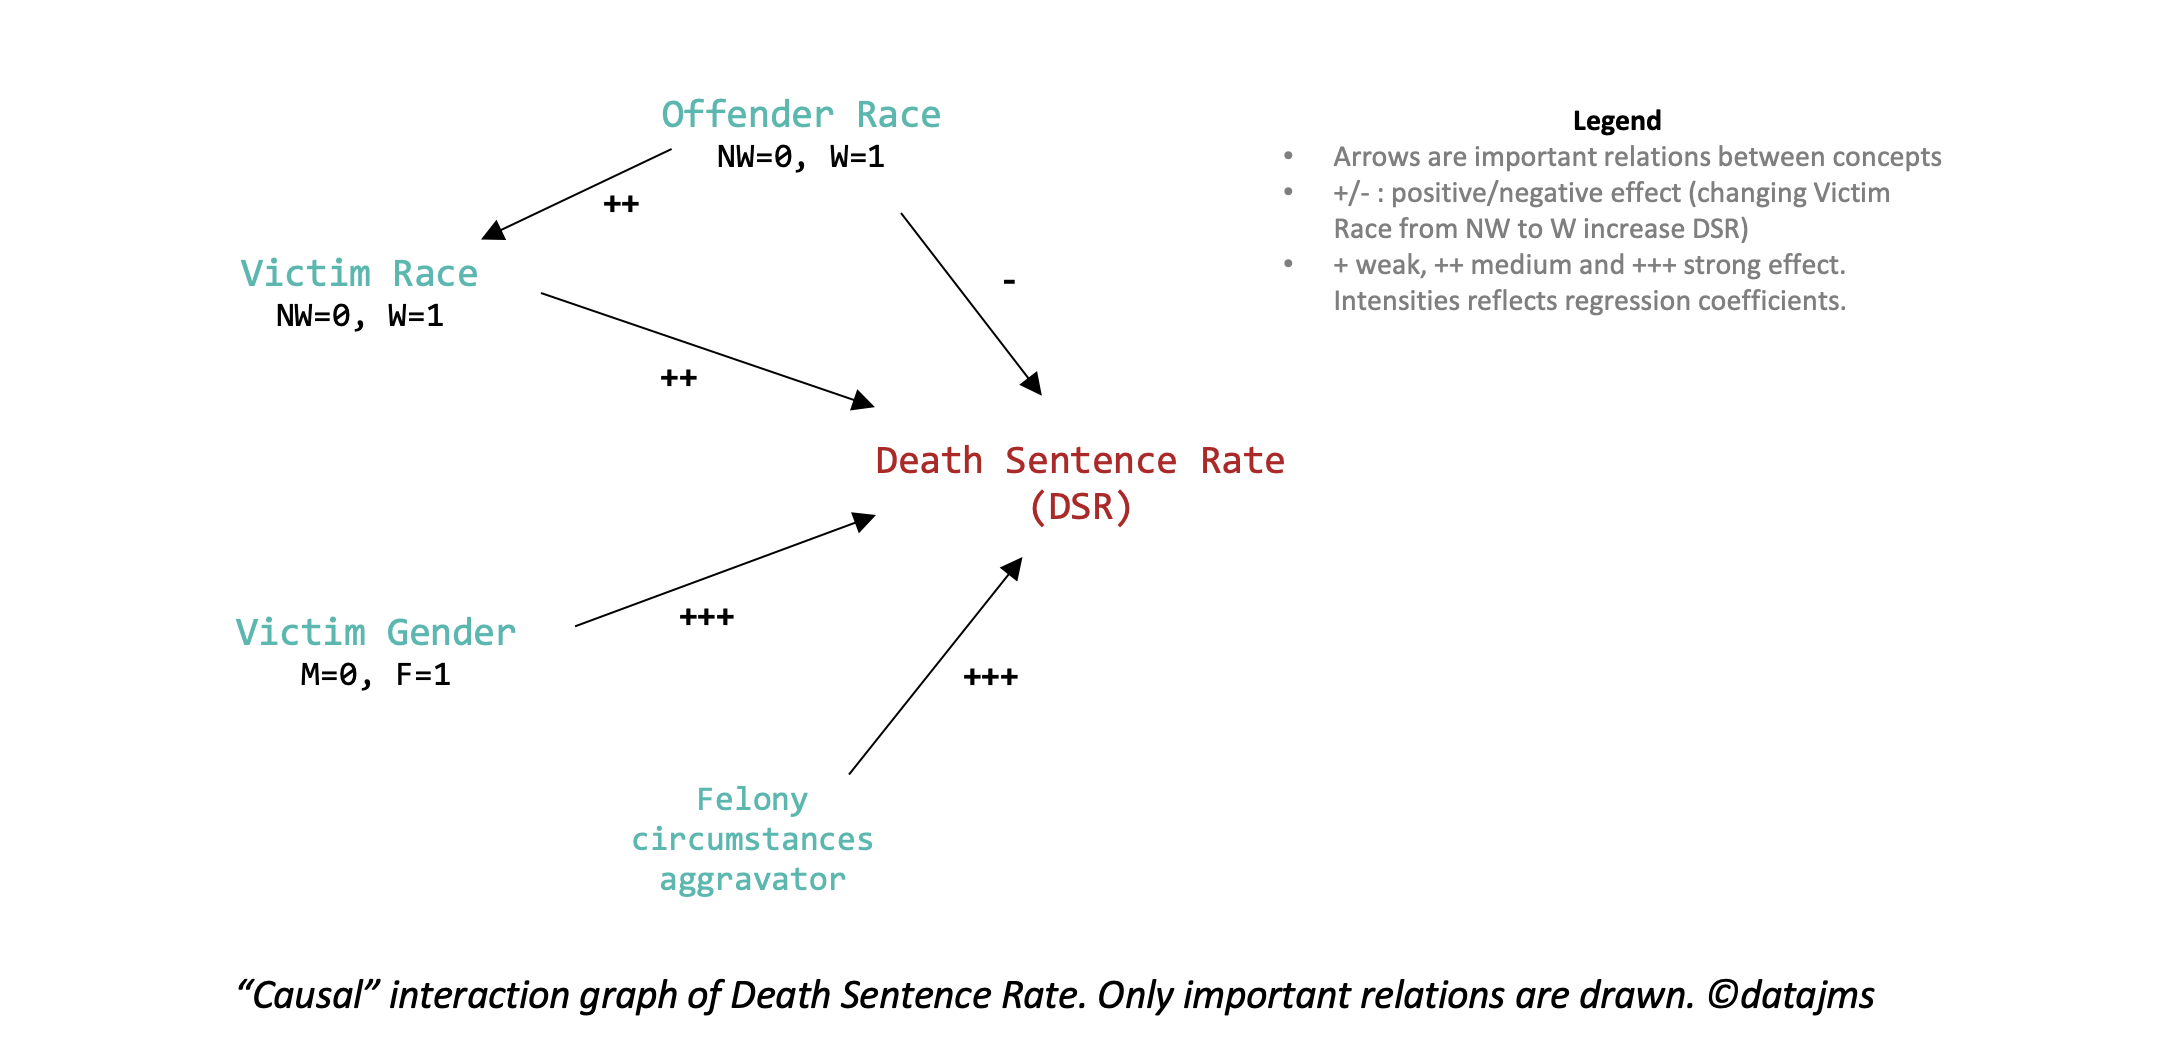
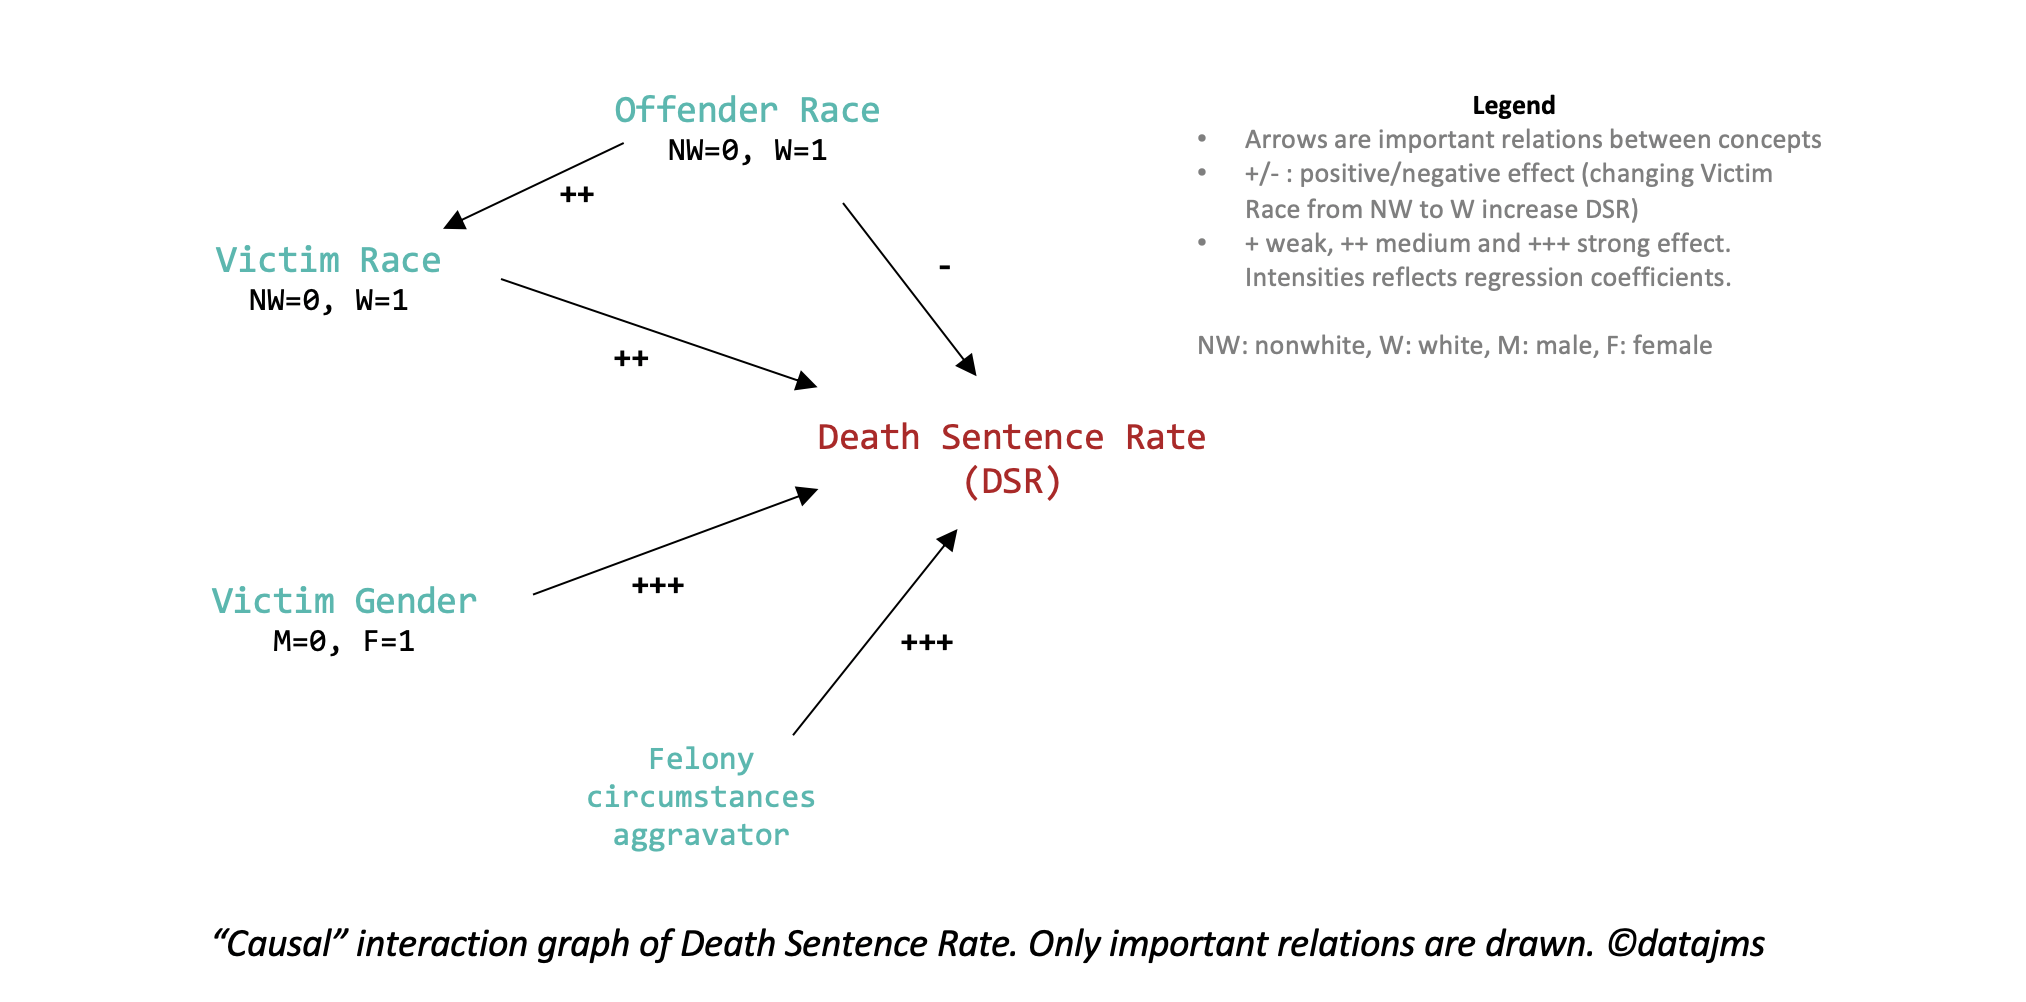
add legend and fix typo

diff --git a/post/fairness_justice_us/index.html b/post/fairness_justice_us/index.html
@@ -24,7 +24,7 @@
         "datePublished": "2020-06-03 10:00:12 \x2b0200 CEST",
         "dateModified" : "2020-06-03 10:00:12 \x2b0200 CEST",
         "url" : "\/post\/fairness_justice_us\/",
-        "wordCount" : "1434",
+        "wordCount" : "1498",
         "keywords" : [ "ideas","fairness","causality","no math","Blog" ]
     }
     </script>
@@ -83,7 +83,7 @@
 <meta itemprop="description" content="When data shows that Black Lives literaly Mattered less">
 <meta itemprop="datePublished" content="2020-06-03T10:00:12&#43;02:00" />
 <meta itemprop="dateModified" content="2020-06-03T10:00:12&#43;02:00" />
-<meta itemprop="wordCount" content="1434">
+<meta itemprop="wordCount" content="1498">
 
 
 
@@ -406,7 +406,7 @@ if (!doNotTrack) {
             June 3, 2020</time>
         <span class="author">Jean-Matthieu Schertzer</span>
         
-            <p>7 minute read</p>
+            <p>8 minute read</p>
         
         
     </div>
@@ -465,7 +465,8 @@ if (!doNotTrack) {
     <main>
         <div class="mycontent" id="mycontent">
             <p>This article addresses a very serious topic in our post-slavery, post-colonisation and post-segregation world.
-How is it that, while laws explicitly <strong>condemn disparate treatments or outcomes<sup id="fnref:1"><a href="#fn:1" class="footnote-ref" role="doc-noteref">1</a></sup></strong>, there are still clear differences that move part of public opinion - and that you should move everyone by the way.</p>
+How is it that, while laws explicitly <strong>condemn disparate treatments or outcomes<sup id="fnref:1"><a href="#fn:1" class="footnote-ref" role="doc-noteref">1</a></sup></strong>, there are still clear differences?
+These differences move part of the public opinion - and that should move everyone by the way because this problem is not going to resolve only with minorities.</p>
 <p>This post will expose and explain a situation where <strong>Black Lives Mattered less</strong>.
 In Oklahoma, from 1990 to 2012, 143 offenders were sentenced to death.
 In 2017, Pierce et al.<sup id="fnref:2"><a href="#fn:2" class="footnote-ref" role="doc-noteref">2</a></sup> collected and analyzed the homicide data (4668 offenders) and the death sentences.
@@ -482,11 +483,13 @@ Assume that there is an offender<sup id="fnref:3"><a href="#fn:3" class="footnot
 We don&rsquo;t know anything about him.</p>
 <p>What would <strong>decrease the probability</strong> that he is <strong>sentenced to death</strong>?</p>
 <ol>
-<li>Less sentence to death if the <strong>offender</strong> is white.</li>
+<li>Less sentence to death if the <strong>offender</strong> is <strong>white</strong>.</li>
 <li>Less sentence to death if the <strong>victim</strong> is <strong>not white</strong>.</li>
 <li>It&rsquo;s about the same odds, justice system is fair, isn&rsquo;t it?</li>
-<li>Your question is biased (but say how, it&rsquo;s interesting).</li>
+<li>Your question is biased (please say how, it&rsquo;s interesting).</li>
 </ol>
+<p>What do you think?
+You can put your answer in the comments below.</p>
 <br>
 <h2 id="2-from-homicide-offenders-to-death-sentences-an-apparent-equality-of-outcomes">2. From homicide offenders to death sentences, an apparent equality of outcomes</h2>
 <p>Let&rsquo;s go back to Oklahoma, where authors have compiled homicides<sup id="fnref:3"><a href="#fn:3" class="footnote-ref" role="doc-noteref">3</a></sup> and death sentences<sup id="fnref:4"><a href="#fn:4" class="footnote-ref" role="doc-noteref">4</a></sup> for the 1990-2012 period .</p>
@@ -502,12 +505,12 @@ Although any prevention/mitigation strategy to reduce homicides should take it i
 </ul>
 <br>
 <blockquote>
-<p><strong>DSR (Death Sentences Rate)</strong> is a central notion of fairness here and we will compute it along multiple dimensions. It is defined by the number of Death Sentences divided by number of Homicide Offenders.</p>
+<p>The equality of <strong>DSR (Death Sentences Rate)</strong> is a central notion of fairness here and we will compute it along multiple dimensions. DSR is defined as the number of Death Sentences divided by number of Homicide Offenders.</p>
 </blockquote>
-<p>Indeed, <strong>Equality of outcomes</strong> means that <strong>similar homicides</strong> (under similar degree of felony circumstances) should lead to <strong>similar Death Sentences Rates</strong> (DSR).</p>
-<p>So, DSR are similar.
+<p><strong>Equality of outcomes</strong> means that <strong>similar homicides</strong> (under similar degree of felony circumstances) should lead to <strong>similar Death Sentences Rates</strong> (DSR).</p>
+<p>So, DSR looks similar whatever the race/ethnicity of the offender.
 Has the full story being told for Oklahoma?
-No it has not, there is far more.</p>
+No, it has not, there is far more.</p>
 <br>
 <h2 id="3-death-sentence-rates-by-raceethnicity-of-victim-tells-an-other-story">3. Death sentence rates by race/ethnicity of victim tells an other story</h2>
 <p>An other perspective is to consider the race/ethnicity of the victim and not of its offender.
@@ -518,21 +521,21 @@ It is, literally speaking, the ideas behind the &ldquo;Black Lives Matter&rdquo;
 
 <br>
 The conclusion is striking: a <b>white victim doubles</b> (2.05 = <b>3.9%/1.9%</b>) the odds of being sentenced to death, vs a nonwhite victim.
-<p>However, are there other strong DSR disparities that should be considerer before concluding that these differences of outcomes are discriminatory.</p>
+<p>However, are there other strong DSR disparities that should be considered before concluding that these differences of outcomes are discriminatory.</p>
 <br>
 <h2 id="4-there-is-also-a-strong-gender-of-victim-effect">4. There is also a strong gender-of-victim effect</h2>
 <p>An other victim characteristic should be considered: the gender.
-It is actually a large effect: <strong>DSR for female victims</strong> is <strong>7.2%</strong> vs <strong>1.6%</strong> for male victims.
+It has actually a large effect: <strong>DSR for female victims</strong> is <strong>7.2%</strong> vs <strong>1.6%</strong> for male victims.
 In other words, a female victim multiply the odds by <strong>4.5</strong> (= 7.2%/1.6%) of being sentenced to death, vs male victims.</p>
 <p>How do the <strong>2 effects</strong> (race/ethnicity and gender of victims) <strong>combine?</strong>
 We could argue here that maybe there are more women among white victims, which would explain why the DSR of white victims is higher.
 In that scenario, there would potentially be no discriminatory effect (assuming that it is ok to condemn more seriously when the victim is female).</p>
-<p>When we compute <strong>race-gender crossed Death Sentences Rates</strong>, this hypothetical scenario disappears:</p>
+<p>When we compute <strong>crossed race-gender Death Sentences Rates</strong>, this hypothetical scenario disappears:</p>
 <figure>
   <img src=/img/post/fairness_justice_us/table_03.png >
 </figure>
 
-<p>There is no Simpson-like distortion effect: there is a clear <strong>white vs nonwhite spread</strong> of DSR both for female and male.
+<p>There is no <a href="https://en.wikipedia.org/wiki/Simpson%27s_paradox">Simpson-like</a> distortion effect: there is a clear <strong>white vs nonwhite spread</strong> of DSR both for female and male.
 The more striking effect is for male victims: a white victim multiply the odds by <strong>2.9</strong> (= 2.3%/0.8%) of being sentenced to death, vs nonwhite victims.</p>
 <p>Let&rsquo;s consider potential other factors before wrapping it up.</p>
 <br>
@@ -545,7 +548,7 @@ Their DSRs are 1.7% (for no aggravator), 6.2% (1 aggravator) and 30.2% (for the 
 <h2 id="6-a-causal-interaction-graph-to-sum-it-up">6. A &ldquo;causal&rdquo; interaction graph to sum it up</h2>
 <p>To account for possible confounding effects and to reason <em>ceteris paribus</em>, authors have run a logistic regression with all previously mentioned variables.
 I encourage you to go and see the results in the paper (Table 11).
-But for simplicity, I have have converted it into a &ldquo;causal graph&rdquo;<sup id="fnref:6"><a href="#fn:6" class="footnote-ref" role="doc-noteref">6</a></sup> while reporting the regression coefficients as direction and intensity on arrows (+/-) pointing to <strong>DSR</strong>.
+But for simplicity, I have translated it into a &ldquo;causal graph&rdquo;<sup id="fnref:6"><a href="#fn:6" class="footnote-ref" role="doc-noteref">6</a></sup> while reporting the regression coefficients as direction and intensity on arrows (+/-) pointing to <strong>DSR</strong>.
 The last arrow from <em>Offender Race</em> to <em>Victim Race</em> accounts for the observation that White offender kills mostly white victims and reversely.</p>
 <figure>
   <img src=/img/post/fairness_justice_us/interaction_graph.png >
@@ -562,18 +565,21 @@ The last arrow from <em>Offender Race</em> to <em>Victim Race</em> accounts for 
 <p><a name="conclusion"></a></p>
 <h2 id="7-conclusion-about-potential-raceethnicity-fairness-issues">7. Conclusion about potential race/ethnicity fairness issues</h2>
 <ol>
-<li>The <strong>direct discrimination (through offender race)</strong> exists but is &ldquo;relatively&rdquo; small (compared to other effects). Imagine a case with a nonwhite offender with a Death Sentence Rate of 2%.
+<li>The <strong>direct discrimination (through offender race)</strong> is &ldquo;relatively&rdquo; small compared to other effects.
+It is so small that the authors of the paper conclude that there is no evidence supporting this direct effect.
+However, the logistic regression suggests that there still is a small effect, but not very significant.<br>
+Imagine a case with a nonwhite offender with a Death Sentence Rate of 2%.
 Being white would decrease its DSR to 1.5% (odds divided by 1.3).</li>
 <li>There is <strong>a clear &ldquo;Black lives matter less&rdquo; effect</strong>, which is even stronger among men.
-Imagine a white man victim case with a Death Sentence Rate of 2%.
+Imagine a white-man-victim case with a Death Sentence Rate of 2%.
 In same conditions, the DSR drops to 0.6% (odds divided by 3.2 for men) with a nonwhite man victim.</li>
 </ol>
 <p>Note that these 2 effects are <strong>partially cancelling</strong> in general. We mentioned that the typical cases are white offenders killing white victims and nonwhite offenders killing nonwhite victims. In those cases, the 2 effects partially cancels themselves, so the DSR are similar.
 However, in the <strong>less frequent &ldquo;cross-race&rdquo; homicides</strong> the <strong>effects adds up</strong> and lead to significant differences in DSR.</p>
 <p>So, to answer our first question, given a homicide offender and we don&rsquo;t know more about him:</p>
 <ul>
-<li>Answer 1 (Less sentence to death if the offender is white) would <strong>reduce your odds by 23%</strong> (1-1/1.3)</li>
-<li>Answer 2 (Less sentence to death if the victim is not white) would <strong>reduce your odds by 44%</strong> (1-1/1.8) in general, and by 69% if the victim is a man.</li>
+<li>Answer 1 (Less sentence to death if the offender is white) would <strong>reduce the odds by 23%</strong> (1-1/1.3)</li>
+<li>Answer 2 (Less sentence to death if the victim is not white) would <strong>reduce the odds by 44%</strong> (1-1/1.8) in general, and by 69% if the victim is a man.</li>
 </ul>
 <p><strong>Answer 2</strong> was correct:</p>
 <blockquote>

diff --git a/post/index.html b/post/index.html
@@ -366,7 +366,7 @@ if (!doNotTrack) {
             June 3, 2020</time>
         <span class="author">Jean-Matthieu Schertzer</span>
         
-            <p>7 minute read</p>
+            <p>8 minute read</p>
         
         
     </div>
@@ -375,7 +375,8 @@ if (!doNotTrack) {
   
   
   <p>This article addresses a very serious topic in our post-slavery, post-colonisation and post-segregation world.
-How is it that, while laws explicitly <strong>condemn disparate treatments or outcomes<sup id="fnref:1"><a href="#fn:1" class="footnote-ref" role="doc-noteref">1</a></sup></strong>, there are still clear differences that move part of public opinion - and that you should move everyone by the way.</p>
+How is it that, while laws explicitly <strong>condemn disparate treatments or outcomes<sup id="fnref:1"><a href="#fn:1" class="footnote-ref" role="doc-noteref">1</a></sup></strong>, there are still clear differences?
+These differences move part of the public opinion - and that should move everyone by the way because this problem is not going to resolve only with minorities.</p>
   <footer>
     <ul class="actions">
       <li><a href="/post/fairness_justice_us/" class="button big">Continue Reading</a></li>

diff --git a/tags/causality/index.html b/tags/causality/index.html
@@ -367,7 +367,7 @@ if (!doNotTrack) {
             June 3, 2020</time>
         <span class="author">Jean-Matthieu Schertzer</span>
         
-            <p>7 minute read</p>
+            <p>8 minute read</p>
         
         
     </div>
@@ -376,7 +376,8 @@ if (!doNotTrack) {
   
   
   <p>This article addresses a very serious topic in our post-slavery, post-colonisation and post-segregation world.
-How is it that, while laws explicitly <strong>condemn disparate treatments or outcomes<sup id="fnref:1"><a href="#fn:1" class="footnote-ref" role="doc-noteref">1</a></sup></strong>, there are still clear differences that move part of public opinion - and that you should move everyone by the way.</p>
+How is it that, while laws explicitly <strong>condemn disparate treatments or outcomes<sup id="fnref:1"><a href="#fn:1" class="footnote-ref" role="doc-noteref">1</a></sup></strong>, there are still clear differences?
+These differences move part of the public opinion - and that should move everyone by the way because this problem is not going to resolve only with minorities.</p>
   <footer>
     <ul class="actions">
       <li><a href="/post/fairness_justice_us/" class="button big">Continue Reading</a></li>

diff --git a/tags/fairness/index.html b/tags/fairness/index.html
@@ -367,7 +367,7 @@ if (!doNotTrack) {
             June 3, 2020</time>
         <span class="author">Jean-Matthieu Schertzer</span>
         
-            <p>7 minute read</p>
+            <p>8 minute read</p>
         
         
     </div>
@@ -376,7 +376,8 @@ if (!doNotTrack) {
   
   
   <p>This article addresses a very serious topic in our post-slavery, post-colonisation and post-segregation world.
-How is it that, while laws explicitly <strong>condemn disparate treatments or outcomes<sup id="fnref:1"><a href="#fn:1" class="footnote-ref" role="doc-noteref">1</a></sup></strong>, there are still clear differences that move part of public opinion - and that you should move everyone by the way.</p>
+How is it that, while laws explicitly <strong>condemn disparate treatments or outcomes<sup id="fnref:1"><a href="#fn:1" class="footnote-ref" role="doc-noteref">1</a></sup></strong>, there are still clear differences?
+These differences move part of the public opinion - and that should move everyone by the way because this problem is not going to resolve only with minorities.</p>
   <footer>
     <ul class="actions">
       <li><a href="/post/fairness_justice_us/" class="button big">Continue Reading</a></li>

diff --git a/tags/ideas/index.html b/tags/ideas/index.html
@@ -367,7 +367,7 @@ if (!doNotTrack) {
             June 3, 2020</time>
         <span class="author">Jean-Matthieu Schertzer</span>
         
-            <p>7 minute read</p>
+            <p>8 minute read</p>
         
         
     </div>
@@ -376,7 +376,8 @@ if (!doNotTrack) {
   
   
   <p>This article addresses a very serious topic in our post-slavery, post-colonisation and post-segregation world.
-How is it that, while laws explicitly <strong>condemn disparate treatments or outcomes<sup id="fnref:1"><a href="#fn:1" class="footnote-ref" role="doc-noteref">1</a></sup></strong>, there are still clear differences that move part of public opinion - and that you should move everyone by the way.</p>
+How is it that, while laws explicitly <strong>condemn disparate treatments or outcomes<sup id="fnref:1"><a href="#fn:1" class="footnote-ref" role="doc-noteref">1</a></sup></strong>, there are still clear differences?
+These differences move part of the public opinion - and that should move everyone by the way because this problem is not going to resolve only with minorities.</p>
   <footer>
     <ul class="actions">
       <li><a href="/post/fairness_justice_us/" class="button big">Continue Reading</a></li>

diff --git a/tags/no-math/index.html b/tags/no-math/index.html
@@ -367,7 +367,7 @@ if (!doNotTrack) {
             June 3, 2020</time>
         <span class="author">Jean-Matthieu Schertzer</span>
         
-            <p>7 minute read</p>
+            <p>8 minute read</p>
         
         
     </div>
@@ -376,7 +376,8 @@ if (!doNotTrack) {
   
   
   <p>This article addresses a very serious topic in our post-slavery, post-colonisation and post-segregation world.
-How is it that, while laws explicitly <strong>condemn disparate treatments or outcomes<sup id="fnref:1"><a href="#fn:1" class="footnote-ref" role="doc-noteref">1</a></sup></strong>, there are still clear differences that move part of public opinion - and that you should move everyone by the way.</p>
+How is it that, while laws explicitly <strong>condemn disparate treatments or outcomes<sup id="fnref:1"><a href="#fn:1" class="footnote-ref" role="doc-noteref">1</a></sup></strong>, there are still clear differences?
+These differences move part of the public opinion - and that should move everyone by the way because this problem is not going to resolve only with minorities.</p>
   <footer>
     <ul class="actions">
       <li><a href="/post/fairness_justice_us/" class="button big">Continue Reading</a></li>
